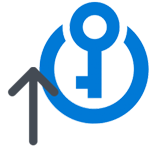
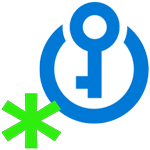
Issue0008 (#21)
* release note update

* add hardcoded setSecretOptions

* add tags on upload multiple secrets

* remove project tags

* remove unneeded output

* add tagsList input

* comment hardcoded tags capability + add tagslist in

* add tags implementation

* add implementation in upload multiple

* rename metadata to Tags

* fix for undefine tags

* fix implementation

* update release note fix execution

* fix

* fix execution

* fix it

* fix

* icon update

* release note update

Changed region(s): [[0.0, 0.4267, 0.4267, 1.0]]

diff --git a/UploadMultipleAzureKeyVaultSecrets/index.ts b/UploadMultipleAzureKeyVaultSecrets/index.ts
@@ -19,6 +19,11 @@ async function run() {
     let resourceGroupName = tl.getInput("resourceGroupName", true) as string;
     let keyVault = tl.getInput("keyVaultName", true) as string;
     let secretsFilePath = tl.getInput("secretsFilePath", true) as string;
+
+    let tagsList = tl.getInput("tagsList", false) as string;
+    if(tagsList === undefined) {
+      tagsList = "";
+    }
     
     console.log("Azure Subscription Id: " + subcriptionId);
     console.log("ServicePrincipalId: " + servicePrincipalId);
@@ -27,6 +32,7 @@ async function run() {
     console.log("Resource Group: " + resourceGroupName);
     console.log("Key Vault: " + keyVault);
     console.log("Secret File Path: '" + secretsFilePath + "'");
+    console.log("tagsList: " + tagsList);
     console.log("");
 
     const url = 'https://' + keyVault + '.vault.azure.net';
@@ -42,12 +48,35 @@ async function run() {
 
           const creds = await LoginToAzure(servicePrincipalId, servicePrincipalKey, tenantId);
           const keyvaultCreds = <TokenCredential> <unknown>(new msRestNodeAuth.ApplicationTokenCredentials(creds.clientId, creds.domain, creds.secret, 'https://vault.azure.net'));
-          console.log(secretsContent.length);
+
+          let elms = tagsList.split(';');
+          let mdString = undefined;
+          for(let i=0;i<elms.length;i++) {
+            let keyValue = elms[i].split('=');
+            if(keyValue.length > 1) {
+              if(mdString === undefined) {
+                mdString = "\"" + keyValue[0] + "\":\"" + keyValue[1] + "\"";
+              } else {
+                mdString += ",\"" + keyValue[0] + "\":\"" + keyValue[1] + "\"";
+              }
+            }
+          }
+
+          let secretOptions: msKeyVault.SetSecretOptions = {};
+          if(mdString !== undefined) {
+            let tagsElement = JSON.parse("{" + mdString + "}");
+            secretOptions.tags = tagsElement;
+          }
+
           const keyvaultClient = new msKeyVault.SecretClient(url, keyvaultCreds);
-          console.log("after keyvaultclient");
           for(var s=0;s<secretsContent.length;s++){
             let secret = secretsContent[s];
-            let secretResult = await keyvaultClient.setSecret(secret.secret, secret.value);
+            let secretResult = undefined;
+            if(mdString !== undefined) {
+              secretResult = await keyvaultClient.setSecret(secret.secret, secret.value, secretOptions);
+            } else {
+              secretResult = await keyvaultClient.setSecret(secret.secret, secret.value);
+            }
             console.log("Secret: " + secretResult.name + " Created/Updated");
           }
         } catch (err) {

diff --git a/CreateUpdateKeyVaultSecret/index.ts b/CreateUpdateKeyVaultSecret/index.ts
@@ -20,6 +20,11 @@ async function run() {
     let keyVault = tl.getInput("keyVaultName", true) as string;
     let secretName = tl.getInput("secretName", true) as string;
     let secretValue = tl.getInput("secretValue", true) as string;
+
+    let tagsList = tl.getInput("tagsList", false) as string;
+    if(tagsList === undefined) {
+      tagsList = "";
+    }
     
     console.log("Azure Subscription Id: " + subcriptionId);
     console.log("ServicePrincipalId: " + servicePrincipalId);
@@ -28,6 +33,7 @@ async function run() {
     console.log("Resource Group: " + resourceGroupName);
     console.log("Key Vault: " + keyVault);
     console.log("SecretName: " + secretName);
+    console.log("tagsList: " + tagsList);
     
     console.log("");
 
@@ -37,7 +43,32 @@ async function run() {
     const keyvaultCreds = <TokenCredential> <unknown>(new msRestNodeAuth.ApplicationTokenCredentials(creds.clientId, creds.domain, creds.secret, 'https://vault.azure.net'));
     const keyvaultClient = new msKeyVault.SecretClient(url, keyvaultCreds);
 
-    let secretResult = await keyvaultClient.setSecret(secretName, secretValue);
+    let elms = tagsList.split(';');
+    let mdString = undefined;
+    for(let i=0;i<elms.length;i++) {
+      let keyValue = elms[i].split('=');
+      if(keyValue.length > 1) {
+        if(mdString === undefined) {
+          mdString = "\"" + keyValue[0] + "\":\"" + keyValue[1] + "\"";
+        } else {
+          mdString += ",\"" + keyValue[0] + "\":\"" + keyValue[1] + "\"";
+        }
+      }
+    }
+
+    let secretOptions: msKeyVault.SetSecretOptions = {};
+    if(mdString !== undefined) {
+      let tagsElement = JSON.parse("{" + mdString + "}");
+      secretOptions.tags = tagsElement;
+    }
+
+    let secretResult = undefined;
+    if(mdString !== undefined) {
+      secretResult = await keyvaultClient.setSecret(secretName, secretValue, secretOptions);
+    } else {
+      secretResult = await keyvaultClient.setSecret(secretName, secretValue);
+    }
+
     console.log(secretResult.name + " set in KeyVault");
   
   } catch (err) {

diff --git a/CurrentReleaseNotes.md b/CurrentReleaseNotes.md
@@ -1,5 +1,7 @@
 ## Related Issues
 
-- ### [Issue0018](https://github.com/expertasolutions/AzureKeyVaultExtension/issues/18)
+- ### [Issue0008](https://github.com/expertasolutions/AzureKeyVaultExtension/issues/8)
 
-  - Convert Classic Release Pipeline to CI/CD Yaml Pipeline
+  - Add the capability to 'tags' secrets from 'Create/Update KeyVault Secret' & 'Upload Azure KeyVault Secrets from file'
+
+    ![Issue0008-01](_ReleaseNotes/Issue0008/Issue0008-01.png)
